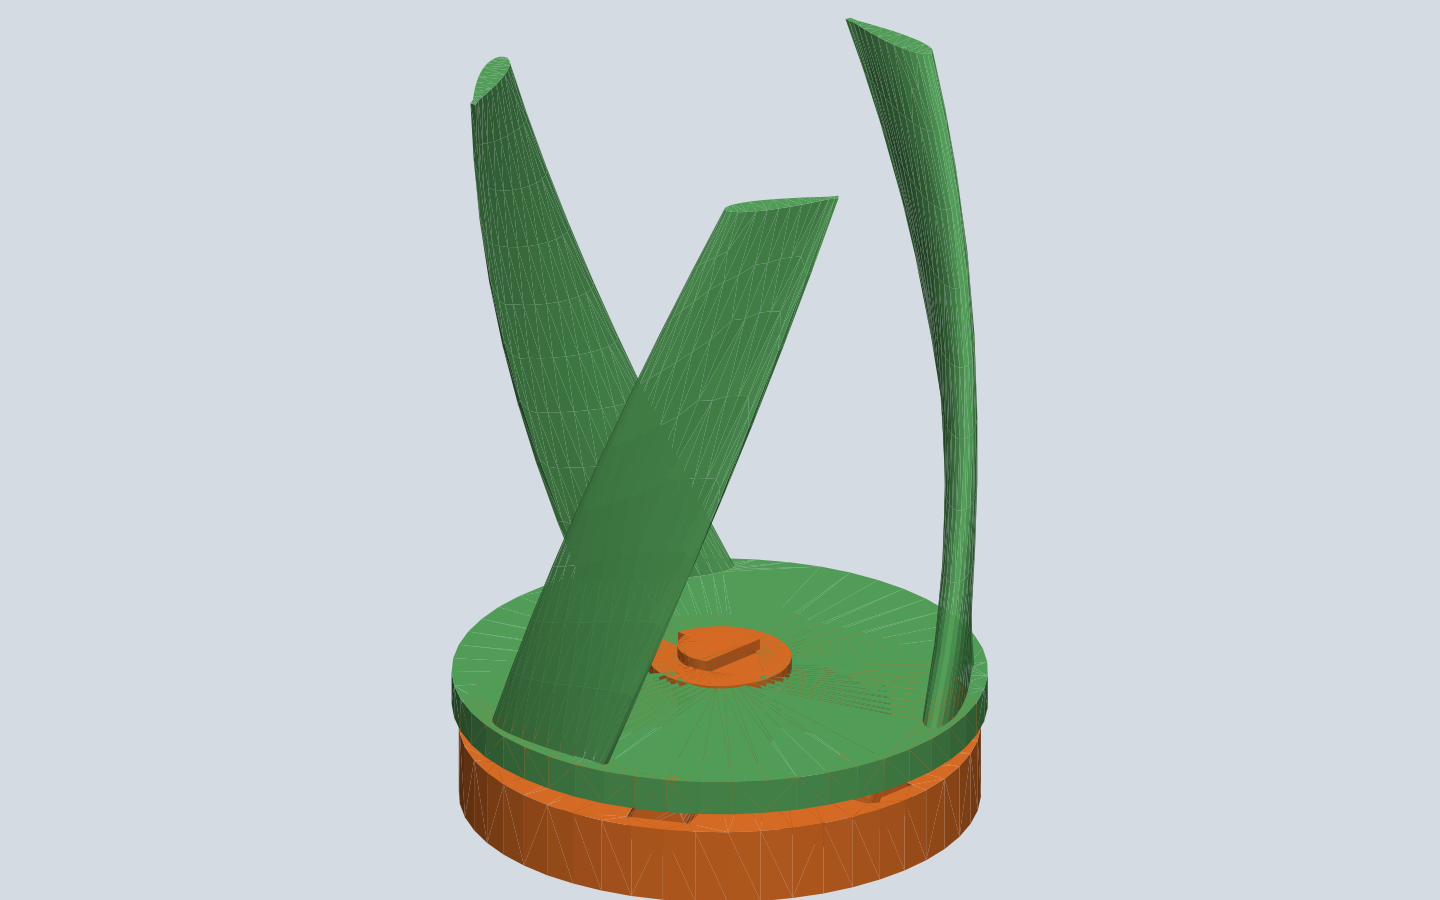
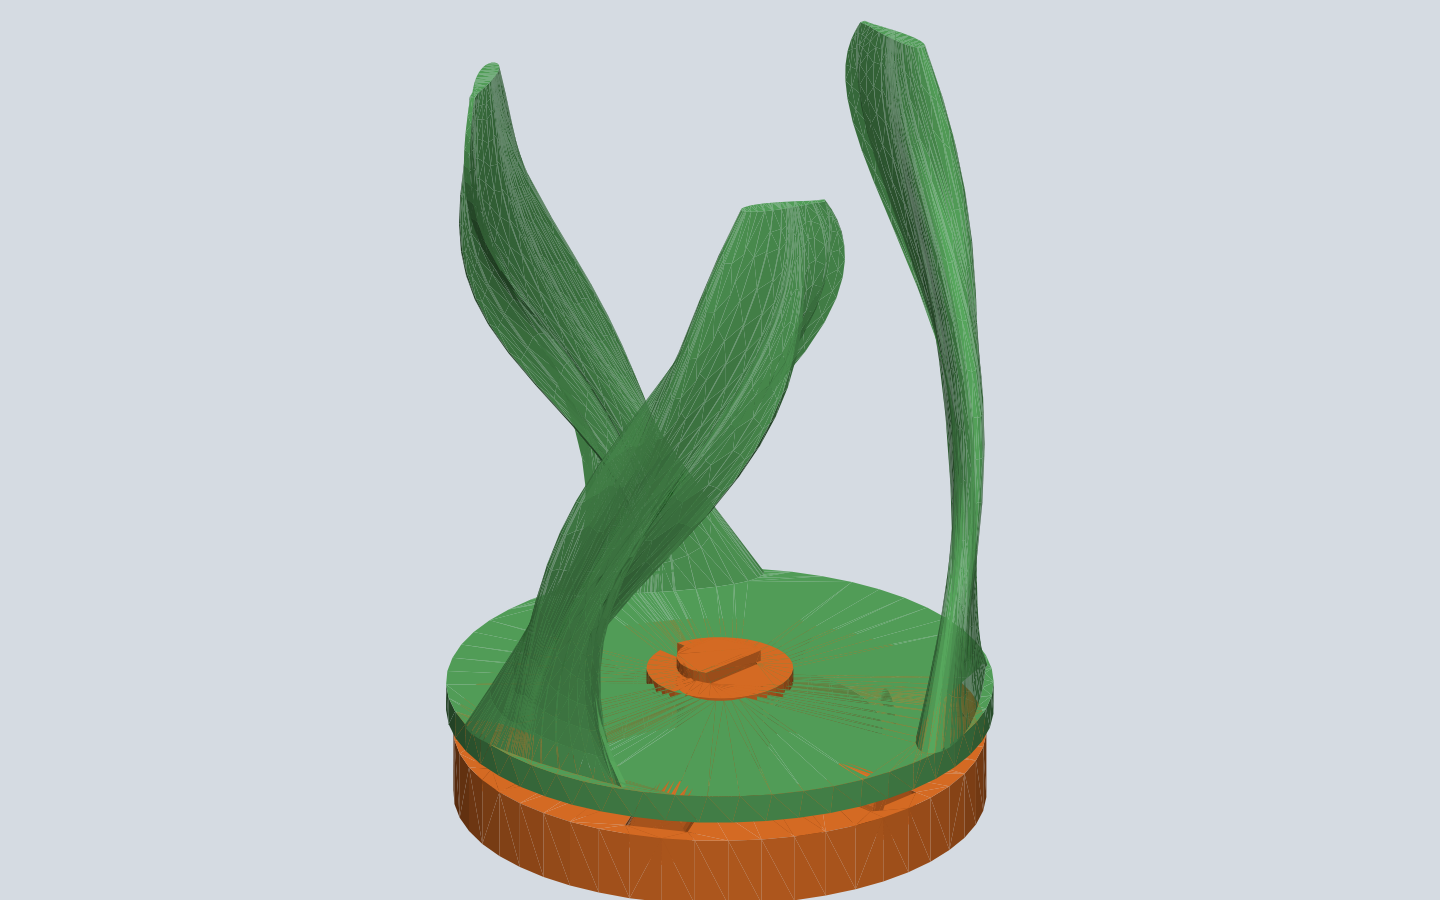
docs(print-kit): tune-pass review shots and live cost
Exam-scale kit is 67.4 cm3 / 35.1 g / .70 PLA. Keepers capture the rollers. Plate is 4.0 mm with a 1.38x organic root over 6 mm and a short taper to a flat tip landing. Clip CAD is unchanged. Close Bambu without saving over 01-kit.3mf.

Changed region(s): [[0.3125, 0.0311, 0.6875, 1.0], [0.5625, 0.9644, 0.625, 0.9956], [0.3438, 0.6533, 0.375, 0.6844]]

diff --git a/mcp-server/src/print_kit_tutor.rs b/mcp-server/src/print_kit_tutor.rs
@@ -198,10 +198,10 @@ impl Spec {
         self.wall()
     }
     fn root_scale(&self) -> f64 {
-        1.22
+        1.38
     }
     fn root_blend_h(&self) -> f64 {
-        self.mm_min(8.0, 3.2)
+        self.mm_min(16.0, 6.0)
     }
     fn tip_taper_h(&self) -> f64 {
         self.mm_min(12.0, 4.0)

diff --git a/docs/agentic/PRINT_KIT_GDT.md b/docs/agentic/PRINT_KIT_GDT.md
@@ -270,7 +270,7 @@ If those steps are not visible in the solid, the exam failed.
 |-------|---------------|------------|
 | Rollers slide out | `race_id` sat at the roller inner end. The top-load pocket is longer than the roller by running, so the cut punched through the race ID into the open Y-frame. | `race_id = PCD − roller length − 2×keeper`. Inner and outer end walls survive the cut (`keeper > running/2`). Still top-load — no bars over the pack. Axial capture stays the plate. |
 | Thick stator | Y-frame / race floor was 6 mm at exam scale. Extra plastic, not extra stiffness where it matters. | Base floor 3.2 mm (exam **4.8**). Race stays a ring. |
-| Thick plate / sharp join | Plate floor was 5 mm. A hard airfoil cut on a thinner plate is a crack starter and a print cliff. | Plate floor 3.2 mm (exam **4.0**). First loft station above the plate is a fatter airfoil (`root_scale` 1.22 over `root_blend_h` 3.2). Through-plate stump stays the sit-plane chord. |
+| Thick plate / sharp join | Plate floor was 5 mm. A hard airfoil cut on a thinner plate is a crack starter and a print cliff. | Plate floor 3.2 mm (exam **4.0**). First loft station above the plate is a fatter airfoil (`root_scale` 1.38 over `root_blend_h` 6.0). Through-plate stump stays the sit-plane chord. |
 | Blunt tip | Square-cut open tip is a dirty aero edge. | Last loft section stays planar (flat landing). Add a short chord taper (`tip_scale` 0.72 over `tip_taper_h` 4.0) into that face. |
 
 ## Clip study (research only — do not change clip CAD this pass)

diff --git a/docs/agentic/print-kit-review/README.md b/docs/agentic/print-kit-review/README.md
@@ -1,13 +1,15 @@
 # Print-kit review shots (2026-08-17)
 
-Merged stator: Y-frame + race ring + open top-load fence + short
-D-journal. Radial-axis thin thrust **under the blade roots**. Rollers
-print standing and drop in from above (not PIP). Clocked C-clip snaps
-into a journal groove and does not rub the rotor. The plate drops over
-a constant journal; the clip goes on last (`pack` still shows it seated).
-`pack` hides
+Tune pass: keeper walls so rollers cannot slide out; thinner Y-frame
+and root plate; organic airfoil roots; short tip taper to a flat
+landing. Clip CAD is unchanged. Merged stator: thin Y-frame + race
+ring + keepers + open top-load fence + short D-journal. Radial-axis
+thin thrust **under the blade roots**. Rollers print standing and drop
+in from above (not PIP). Clocked C-clip snaps into a journal groove
+and does not rub the rotor. The plate drops over a constant journal;
+the clip goes on last (`pack` still shows it seated). `pack` hides
 the rotor so the lying rollers / top-load windows are visible. `races`
-looks up from under the plate. `hub` is a close stack. `side` shows the
-short pack — not a drum, not two flats.
+looks up from under the plate. `hub` is a close stack (plate h4).
+`side` shows the short pack — not a drum, not two flats.
 
 These are the check renders from `npm run render:print-kit`, copied here so they are not stuck in gitignored `docs/qa/`.

diff --git a/docs/agentic/PRINT_KIT_REPORT.md b/docs/agentic/PRINT_KIT_REPORT.md
@@ -58,8 +58,8 @@ shaft/hub/wings/plate/bushing/cap names):
 
 Assumptions: Bambu PLA Basic Orange + Bambu PLA Glow, 1.24 g/cm³, $20/kg, print-volume factor 0.42.
 
-At exam scale 0.4 the last green run was ~73.4 cm³ CAD solid, **38.2 g**,
-**$0.76** PLA (constant journal + groove clip). The exam writes the live
-figures next to the project. Two filaments only: PLA Basic Orange and
-PLA Glow Green.
+At exam scale 0.4 the last green run was ~67.4 cm³ CAD solid, **35.1 g**,
+**$0.70** PLA (keepers + thinner stack + organic roots; clip unchanged).
+The exam writes the live figures next to the project. Two filaments
+only: PLA Basic Orange and PLA Glow Green.
 Electricity and machine time are not priced. No additional hardware.
